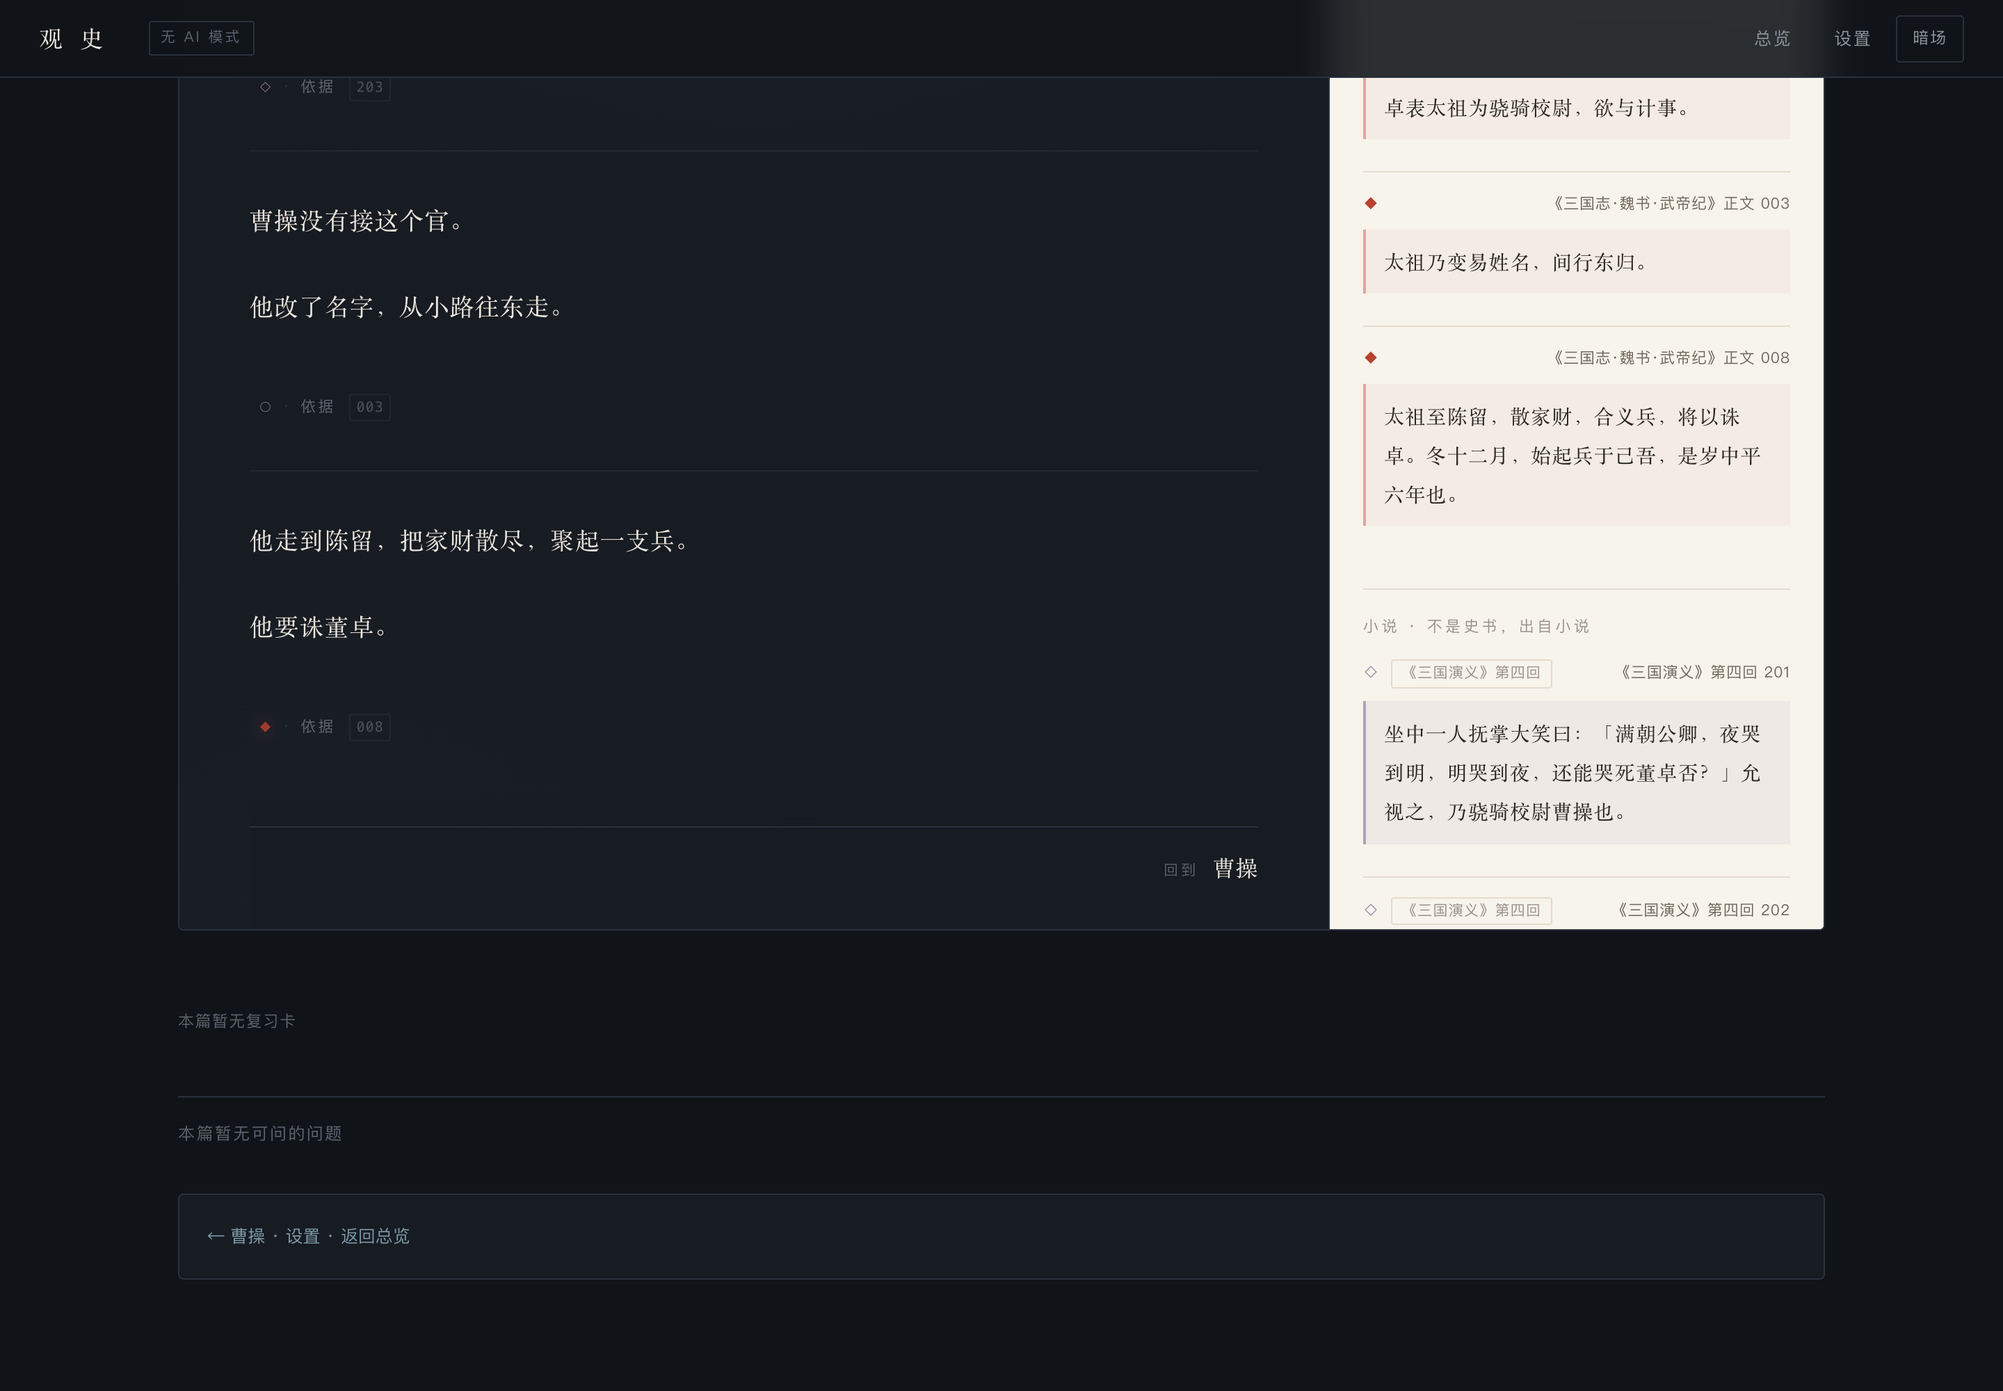
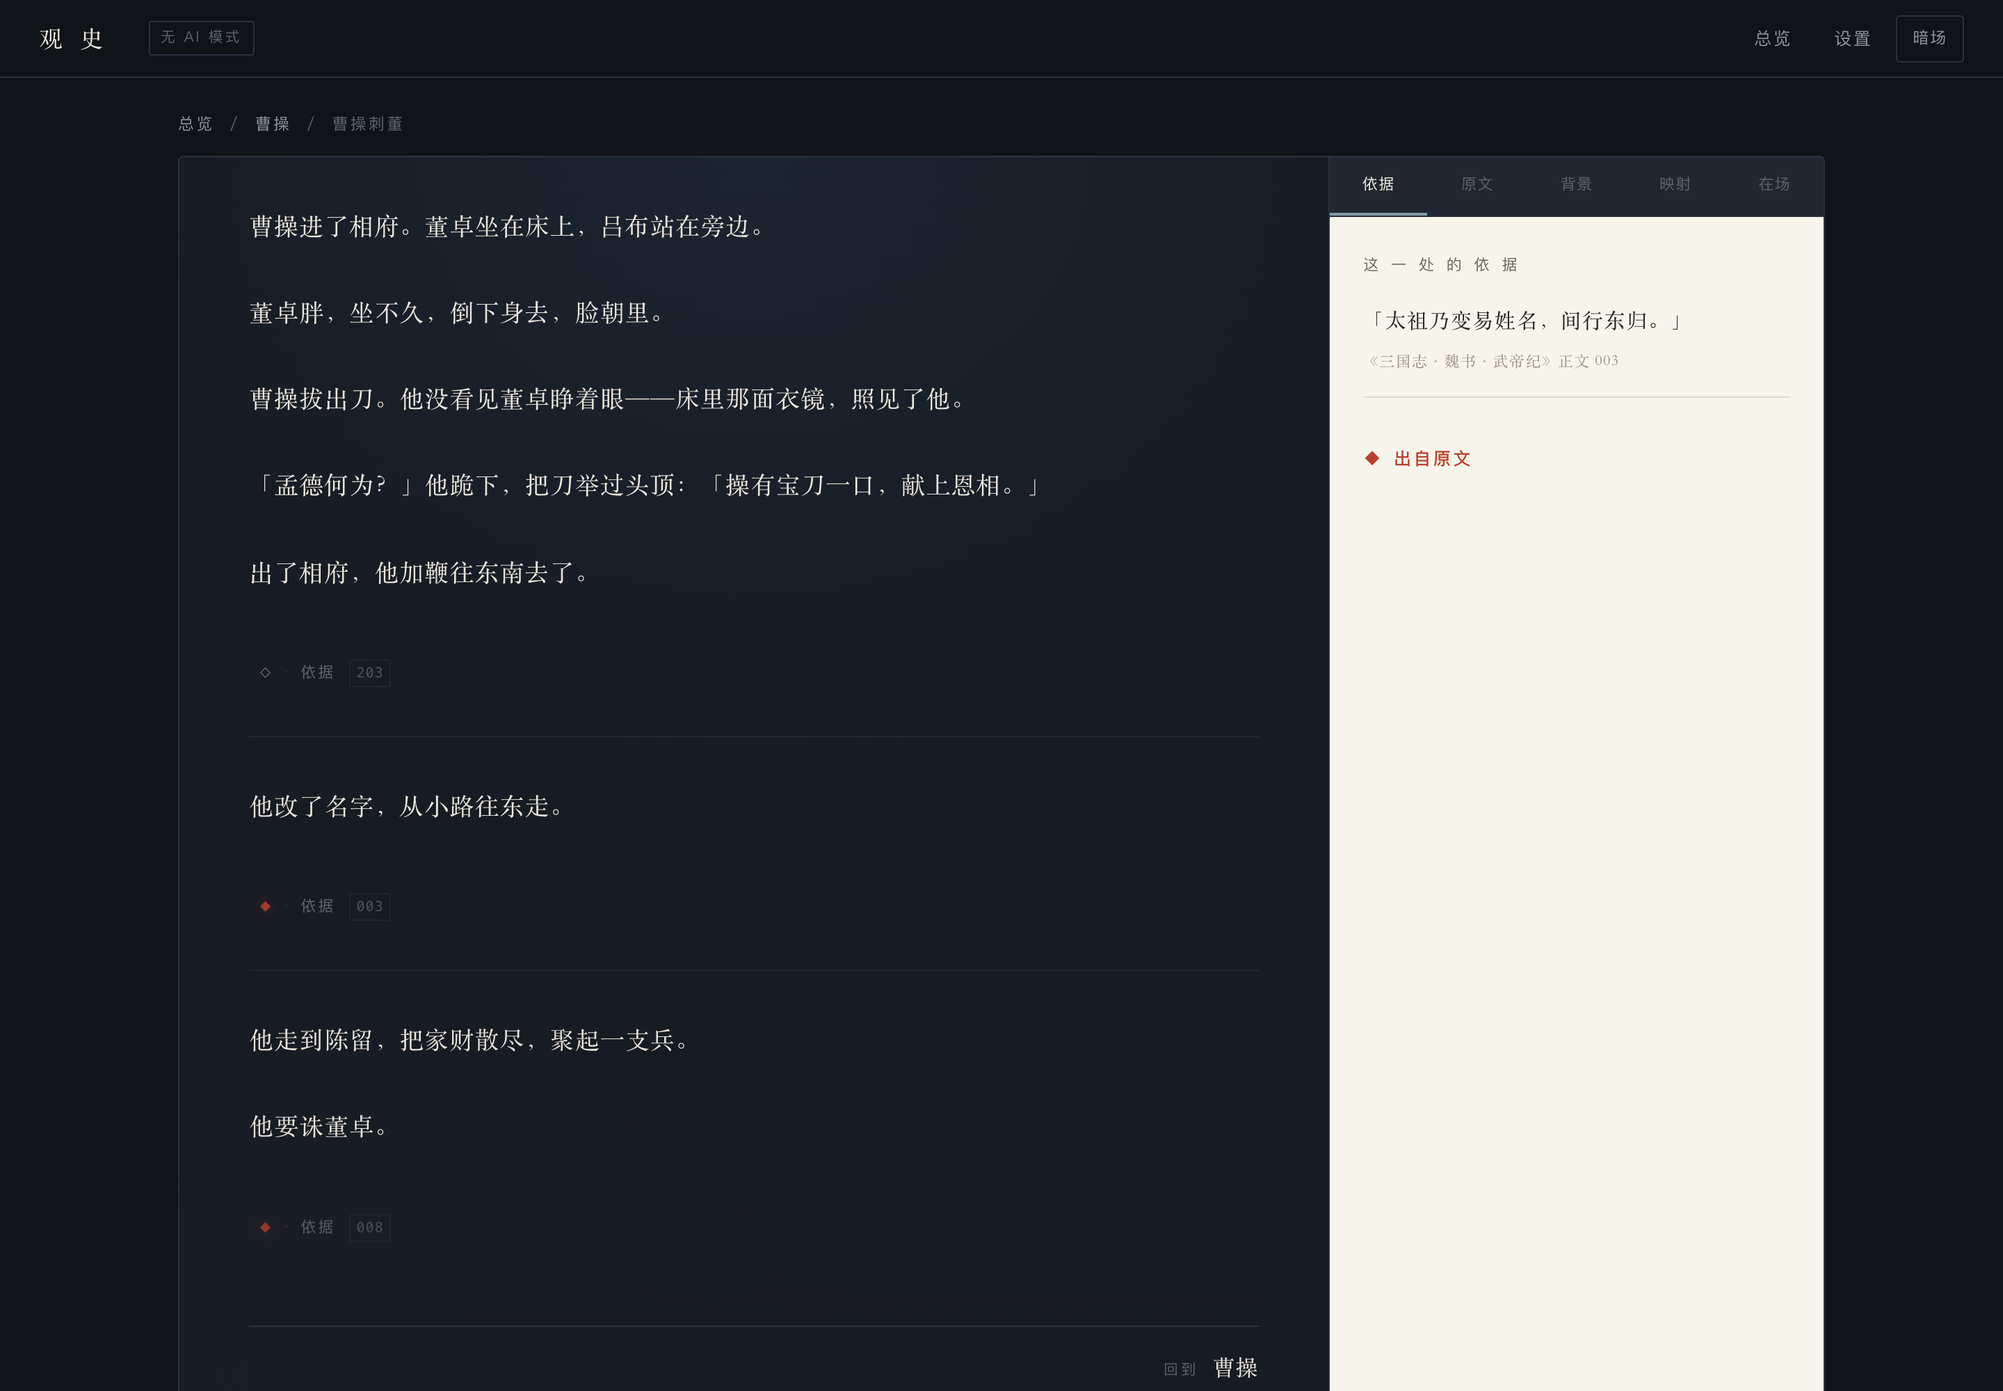
修断点：把 ○ 推演从场景里挪走；荆轲 91 段核完（全库 114/114）
用户读到最后一段：「怎么就曹操拒绝授官了」。

断在哪
第 5 段原来是「曹操没有接这个官。他改了名字，从小路往东走。」标 ○。
上一段读者刚看完他进相府、拔刀、跪下献刀、跑出相府，
转头被告知「他没有接这个官」——**上一段被顶掉了**，读到这里就断。

根子：两本书在这个点上给的是**两种人**，不是先后两件事。
《武帝纪》002 只记「卓表太祖为骁骑校尉，欲与计事」，紧接 003
「太祖乃变易姓名，间行东归」——中间没交代他接没接；
「没有接」是这两句相邻推出来的。《三国演义》第四回明说他接了
（202「屈身以事卓」）。把一边的推演摆成叙述事实，就把另一边顶掉了。

改法
· 第 5 段只留两本书都认的那一句：「他改了名字，从小路往东走。」◆ 003。
  上一段演义结尾是「加鞭望东南而去」，接得上。
· ○ 推演挪进背景卡「他到底接没接那个官」——两种说法并排，
  给的是两个来源，不是一个结论。
· 场景现在是 ◆◆◇◇◆◆：两本都认的头、只有演义有的中段、两本都认的尾。
  连贯，而且每段都标着出自哪本书。

★ 荆轲 91 段核完
上次说「核不了」——Project Gutenberg 的《史記》#24226 缺〈刺客列传〉。
换了 GitHub hunterhug/china-history 的〈刺客列传〉原文，
`npm run check-sources` 跑出 **91/91**。全库 114/114。

91 段里约 75 段和这份独立转录本逐字相同（常是几十字连着一样），
剩下的差异**全部**是单字级，而且几乎都是**参考本自己**脱字或形近误字：
盖「聂」被脱、其少时与丹「骥」、乃复请曰「曰」已尽矣、以药「蟀」之、
乃引其「首」以「摘」秦王、中「桐」柱、乃「才」以药囊提、乃「嚯」其目。

**一处是本库错的，改了**：045 原作「右手揕其**胸**」，参考本与通行本
都作「匈」（史记原文，通「胸」）。改了 source.md 和引用它的四处内容。

差异逐条登记在 scripts/refs.json 的「校勘」里——故意的不同，一条都不许偷偷改。

工具
· check-sources 两边走**同一个**繁转简再比。原来只转参考文本，
  于是给简体文本做繁转简时「於期」被改成「于期」，
  本库写对的「樊於期」反而报错。
· readSource 只认优先级为 A/B/C 的行：原来会把 source.md 里别的表
  （「五段的结构」）当原文拉进来一起比。
· fetch-refs 加《刺客列传》。

npm run check 6770 项全过；npm run verify 12/12；check-sources 114/114。

diff --git a/content/people/jingke/source.md b/content/people/jingke/source.md
@@ -9,29 +9,41 @@
 
 **本文件的原文由 AI 依记忆写出，尚未与实体书核对。**
 
-> ### 2026-10-13 更新：工具链通了，但《史记》这份电子本缺这一篇
+> ### 2026-10-13 · 91 段全部逐字核对完毕
 >
-> 曹操那一篇已经**逐字核对完毕**（`npm run check-sources`，23/23）。
-> 靠的是 Project Gutenberg 上的公版电子本：《三國志》#25606、《三國志演義》#23950。
-> 两个网址稳定、谁都能重新下载、谁都能复核结论。
+> 跑 `npm run check-sources`，这一篇 **91/91** 和参考文本逐字一致
+> （曹操那一篇 23/23，全库 114 段）。
 >
-> **荆轲这一篇还是核不了**，因为：
+> 参考文本是 GitHub [`hunterhug/china-history`](https://github.com/hunterhug/china-history)
+> 的〈刺客列传〉原文。Project Gutenberg 的《史記》#24226 **缺这一篇**
+> （目录从〈吕不韦列传〉直跳〈李斯列传〉），换用了这一份。
 >
-> | 试过的 | 结果 |
-> |---|---|
-> | ctext.org | 明确声明禁止抓取，且会**故意返回损坏数据** |
-> | 中文维基文库 / 中文维基百科 | 网络不可达（境外站点通，这两个不通） |
-> | `web_search` | 插件认证失败（HTTP 401），端点要单独配 |
-> | Project Gutenberg #24226《史記》 | **下载成功，但这一篇不在里面**——目录从〈吕不韦列传〉直接跳到〈李斯列传〉，〈刺客列传第二十六〉整篇缺失（〈吕不韦列传〉还重复了两次，是份有缺陷的转录本） |
+> **这是一份独立的转录本**：它和本库是两路人马，比对下来 91 段里
+> 约 75 段逐字相同（常常是几十个字连着一样），剩下的差异**全部**是
+> 单字级别，而且几乎都是**参考本自己**脱字或形近误字：
 >
-> **所以 91 段仍然是「依记忆写出、未核」。** 下一份要找的是**完整的**《史记》
-> 电子本，或者实体书。找到之后直接改 `web/scripts/refs.json`，
-> 加一行 `"《史记·刺客列传》": { "ref": "shiji.txt", "from": "刺客列傳", "to": "…" }` 就能跑。
+> | 参考本 | 本库 | 谁对 |
+> |---|---|---|
+> | 盖**曰**曩者吾与论剑 | 盖**聂**曰曩者吾与论剑 | 本库（参考脱「聂」） |
+> | 其少时与丹**骥** | 其少时与丹**欢** | 本库 |
+> | 其后秦**出兵**山东 | 其后秦**日**出兵山东 | 本库（参考脱「日」） |
+> | 乃复请曰**曰**已尽矣 | 乃复请曰**日**已尽矣 | 本库 |
+> | 使工以药**蟀**之 | 使工以药**焠**之 | 本库 |
+> | 乃引其**首**以**摘**秦王…中**桐**柱 | 乃引其**匕首**以**擿**秦王…中**铜**柱 | 本库 |
+> | 乃**才**以药囊提荆轲也 | 乃**以**药囊提荆轲也 | 本库 |
+> | 乃**嚯**其目 | 乃**矐**其目 | 本库 |
+> | **秦武阳** / 荆轲顾笑**武阳** | **秦舞阳** / 荆轲顾笑**舞阳** | 通行本作「舞阳」，从本库 |
 >
-> 剩下的路径：
-> - `web_search` 修好端点之后，可以再找别的公版电子本
-> - ctext.org 的替代站（但要注意授权的站不多）
-> - **实体书**——这一条永远是最靠得住的，也一直没做
+> **一处是本库错的，已经改了**：`045` 原作「右手揕其**胸**」，
+> 参考本与通行本都作「**匈**」（史记原文，通「胸」）。改了 source.md
+> 和引用它的三处内容。
+>
+> 这些差异**逐条登记**在 `web/scripts/refs.json` 的「校勘」里——
+> 凡是我们故意和参考本不一样的地方，一条都不许偷偷改。
+>
+> ⚠ **参考本也是转录本，不是实体书。** 它能证明「我们写的和这份文件一致」，
+> 不能证明「这份文件绝对正确」——上面那张表反过来也说明：**转录本自己会错**。
+> 拿中华书局点校本再核一遍这件事，仍然没做。
 
 因此建立了**核对优先级**制度。你每周 1–2 小时的审校，只需要从 ⚠ 的地方开始。
 
@@ -150,7 +162,7 @@
 | 042 | 荆轲知太子不忍，乃遂私见樊於期曰：「秦之遇将军可谓深矣，父母宗族皆为戮没。今闻购将军首金千斤，邑万家，将奈何？」 | A |
 | 043 | 於期仰天太息流涕曰：「於期每念之，常痛于骨髓，顾计不知所出耳！」 | A |
 | 044 | 荆轲曰：「今有一言可以解燕国之患，报将军之仇者，何如？」於期乃前曰：「为之奈何？」 | B |
-| 045 | 荆轲曰：「愿得将军之首以献秦王，秦王必喜而见臣，臣左手把其袖，右手揕其胸，然则将军之仇报而燕见陵之愧除矣。将军岂有意乎？」 ★ | A |
+| 045 | 荆轲曰：「愿得将军之首以献秦王，秦王必喜而见臣，臣左手把其袖，右手揕其匈，然则将军之仇报而燕见陵之愧除矣。将军岂有意乎？」 ★ | A |
 | 046 | 樊於期偏袒扼腕而进曰：「此臣之日夜切齿腐心也，乃今得闻教！」遂自刭。 ★ | A |
 | 047 | 太子闻之，驰往，伏尸而哭，极哀。既已不可奈何，乃遂盛樊於期首函封之。 | A |
 

diff --git a/content/people/caocao/stories/01-cidong.md b/content/people/caocao/stories/01-cidong.md
@@ -120,15 +120,13 @@
 
 ### 情节点 5 · 东归
 
-> 曹操没有接这个官。
->
 > 他改了名字，从小路往东走。
 
-| 标记 | ○ |
+| 标记 | ◆ |
 | 原文 | `003` 太祖乃变易姓名，间行东归。 |
-| 依据 | `002` 与 `003` 两句相邻：先「表太祖为骁骑校尉」，后「变易姓名，间行东归」。**「没有接」是这两句之间推出来的，底本不写他为什么不接。** |
+| 依据 | `003` |
 
-| 说明 | 和上一段摆在一起看：**演义里他接了官、进了相府、拔了刀；正史里他没接，直接就走了。**「接没接」是两本书的第一处分岔，读到这里应该停一下 |
+| 说明 | **这一句是两本书都认的出口。** 上一段演义写他「加鞭望东南而去」，003 写他改名换姓往东走——同一件事，接得上。原来这里还写了一句「曹操没有接这个官」：那是 ○ 推演，而演义明说他接了（`202`「屈身以事卓」），摆在这儿会把上一段顶掉，读者读到这儿就断了。**推演挪进背景卡，场景只留两本书都认的那一句** |
 |---|---|
 
 ---
@@ -155,6 +153,20 @@
 汉代的军职。董卓给曹操这个官，是想把他收到自己这边。
 
 > **依据**：`002` 只记「表太祖为骁骑校尉」。想把他收到自己这边，是推的——**「欲与计事」四个字给了这个推论一个支点，但底本没有明说**。
+
+---
+
+### 他到底接没接那个官 ○
+
+**两本书在这里分了岔。**
+
+《武帝纪》只记「卓表太祖为骁骑校尉，欲与计事」，紧接着就是「太祖乃变易姓名，间行东归」——中间**没有交代他接没接**。「他没有接」是这两句相邻推出来的，不是底本写的。
+
+《三国演义》第四回说他接了。曹操自己对王允说：「近日操屈身以事卓者，实欲乘间图之耳」——他屈身事奉董卓，就是为了找机会动手。
+
+**演义要的是一个忠臣**（他后来对陈宫说「吾祖宗世食汉禄，若不思报国，与禽兽何异」）；**正史给的是一个自己拉起队伍的人。** 同一个 189 年，两种人。两种都摆在这儿，标清楚哪句是哪本书，不替读者选。
+
+> **依据**：`002` `003`（《三国志·武帝纪》）；`202`（《三国演义》第四回）。**谁对谁错，底本不回答。**
 
 ---
 
@@ -194,7 +206,7 @@
 | 董卓到洛阳，废少帝为弘农王，立献帝，京都大乱 | ◆ | `001` |
 | 董卓表曹操为骁骑校尉，欲与计事 | ◆ | `002` |
 | 曹操变易姓名，间行东归 | ◆ | `003` |
-| 曹操没有接这个官 | ○ | 由 `002` 与 `003` 两句相邻推知；**底本不写他为什么不接** |
+| 曹操没有接这个官 | ○ | 由 `002` 与 `003` 两句相邻推知（写在背景卡「他到底接没接那个官」里）；**《三国演义》第四回说他接了**（`202`） |
 | 曹操为什么不接这个官 | — | 底本只记他走了，不记他为什么走 |
 | 曹操到陈留，散家财，合义兵，将以诛卓 | ◆ | `008` |
 | 曹操起兵之后的事（五千人、荥阳之败……） | — | **本篇不写**，归 `03-chenliu` 和后续篇目 |
@@ -241,14 +253,24 @@
 | 2 一个官 | `002` 《武帝纪》 | ◆ |
 | 3 借刀 | `201` `202` 《三国演义》第四回 | ◇ |
 | 4 那一刀 | `203` `204` 《三国演义》第四回 | ◇ |
-| 5 东归 | `002` `003` 《武帝纪》 | ○ |
+| 5 东归 | `003` 《武帝纪》 | ◆ |
 | 6 陈留 | `008` 《武帝纪》 | ◆ |
 
-**顺序是刻意的**：先给刀（演义），再收走刀（正史）。读者在 3、4 里
-跟着曹操进了相府、看见衣镜、跪下去献刀；到 5 才看见正史说
-「他没有接这个官」——**「接没接」这一处分岔，是这一篇真正要讲的东西。**
+**两本书在这条线上是同一条线**：董卓给他官（2，两本都这么记）→ 他离开洛阳往东走
+（5，两本都认）→ 到陈留散尽家财起兵（6，两本都认）。中间那两段（3、4）只有演义有。
 
-比「告诉你演义是假的」有效得多：读者自己撞上矛盾，才会去点开底本看。
+所以场景读下来是**连贯的一个故事**：他在洛阳动过手、没成、跑了，往东走，
+然后在陈留拉起一支兵。
+
+**第一版不是这么写的。** 第 5 段写的是「曹操没有接这个官」——那是 ○ 推演，
+而演义明说他接了（`202`「屈身以事卓」）。两句摆在一起，读者刚看完他进相府拔刀，
+转头被告知他没接那个官，**读到这儿就断了**（用户的原话：「怎么就曹操拒绝授官了」）。
+
+**推演不是不能有，是不能摆在会顶掉上一段的地方。** 那一句现在在背景卡
+「他到底接没接那个官」里，和演义的说法并排；读者想知道「到底哪个是真的」，
+那里给的是**两个来源**，不是一个结论。
+
+这也让分岔的位置更准：**分岔不在结尾，在中间那两段。**
 
 ### 标记为什么新增了 ◇
 

diff --git a/content/people/jingke/stories/04-fanyuqi.md b/content/people/jingke/stories/04-fanyuqi.md
@@ -175,7 +175,7 @@
 >
 > 荆轲说：
 >
-> 「愿得将军之首以献秦王，秦王必喜而见臣，臣左手把其袖，右手揕其胸，然则将军之仇报而燕见陵之愧除矣。将军岂有意乎？」
+> 「愿得将军之首以献秦王，秦王必喜而见臣，臣左手把其袖，右手揕其匈，然则将军之仇报而燕见陵之愧除矣。将军岂有意乎？」
 >
 > ——我想得到将军的头，献给秦王。秦王一定高兴，会接见我。到那时候，我左手抓住他的袖子，右手刺进他的胸膛。这样，将军的仇报了，燕国受欺凌的耻辱也洗掉了。将军有意吗？
 >
@@ -189,7 +189,7 @@
 
 | 标记 | ◆ |
 | 原文 | `046` 樊於期偏袒扼腕而进曰：「此臣之日夜切齿腐心也，乃今得闻教！」遂自刭。 |
-| 依据 | `044`「荆轲曰：『今有一言可以解燕国之患，报将军之仇者，何如？』於期乃前曰：『为之奈何？』」；`045`「愿得将军之首以献秦王，秦王必喜而见臣，臣左手把其袖，右手揕其胸，然则将军之仇报而燕见陵之愧除矣。将军岂有意乎？」；`046` |
+| 依据 | `044`「荆轲曰：『今有一言可以解燕国之患，报将军之仇者，何如？』於期乃前曰：『为之奈何？』」；`045`「愿得将军之首以献秦王，秦王必喜而见臣，臣左手把其袖，右手揕其匈，然则将军之仇报而燕见陵之愧除矣。将军岂有意乎？」；`046` |
 
 | 说明 | `045` 与 `067`（咸阳宫那一下）**是同一句话分两次兑现**：左手把袖、右手揕胸，`046` 之后四个月才发生。樊於期是**唯一一个在事前就听完整个刺杀方案的人** |
 |---|---|

diff --git a/content/people/jingke/seeds/06-yishui.md b/content/people/jingke/seeds/06-yishui.md
@@ -53,7 +53,7 @@
 
 | 标记 | ◆ |
 | 依据 | `042`「秦之遇将军可谓深矣，父母宗族皆为戮没。」`045`「愿得将军之首以献秦王……将军岂有意乎？」 |
-| 备注 | `045` 的原话是「左手把其袖，右手揕其胸」——**他要的不是秦王的命，是那个动作** |
+| 备注 | `045` 的原话是「左手把其袖，右手揕其匈」——**他要的不是秦王的命，是那个动作** |
 
 ---
 
@@ -104,7 +104,7 @@
 > 「剑藏不进去。」
 
 | 标记 | ○ |
-| 依据 | `002`「荆卿好读书击剑」说明他会剑；`045` 他规划的是「右手**揕**其胸」；`067` 实际用的是匕首。**为何弃剑用匕首，原文未解释** |
+| 依据 | `002`「荆卿好读书击剑」说明他会剑；`045` 他规划的是「右手**揕**其匈」；`067` 实际用的是匕首。**为何弃剑用匕首，原文未解释** |
 
 ---
 

diff --git a/content/people/jingke/seeds/04-fanyuqi.md b/content/people/jingke/seeds/04-fanyuqi.md
@@ -121,7 +121,7 @@
 > 「左手抓袖子，右手刺胸口。到时候就是这样。」
 
 | 标记 | ◆ |
-| 依据 | `045`「臣左手把其袖，右手揕其胸」——与 `067`「因左手把秦王之袖，而右手持匕首揕之」是同一套动作 |
+| 依据 | `045`「臣左手把其袖，右手揕其匈」——与 `067`「因左手把秦王之袖，而右手持匕首揕之」是同一套动作 |
 
 ---
 
